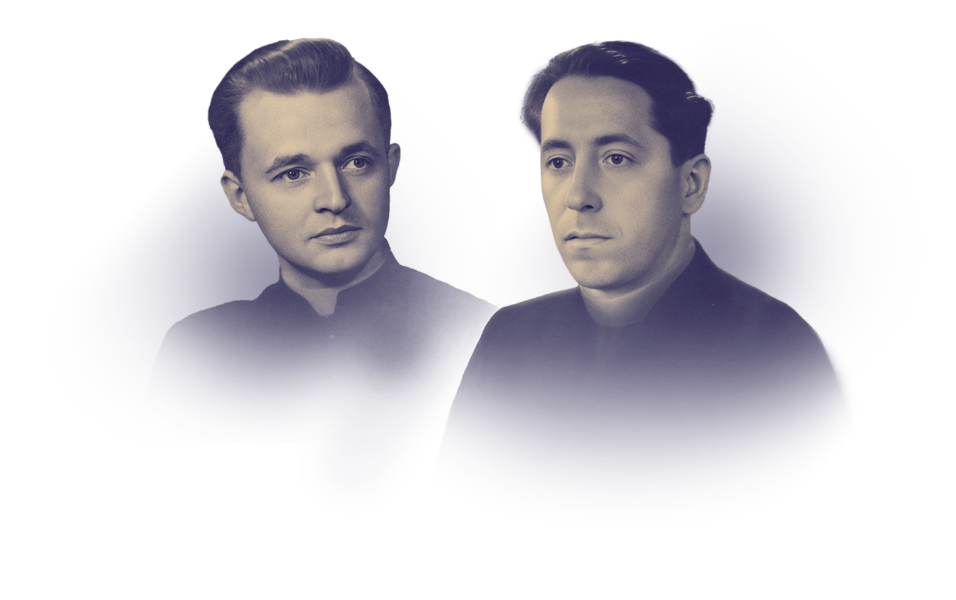
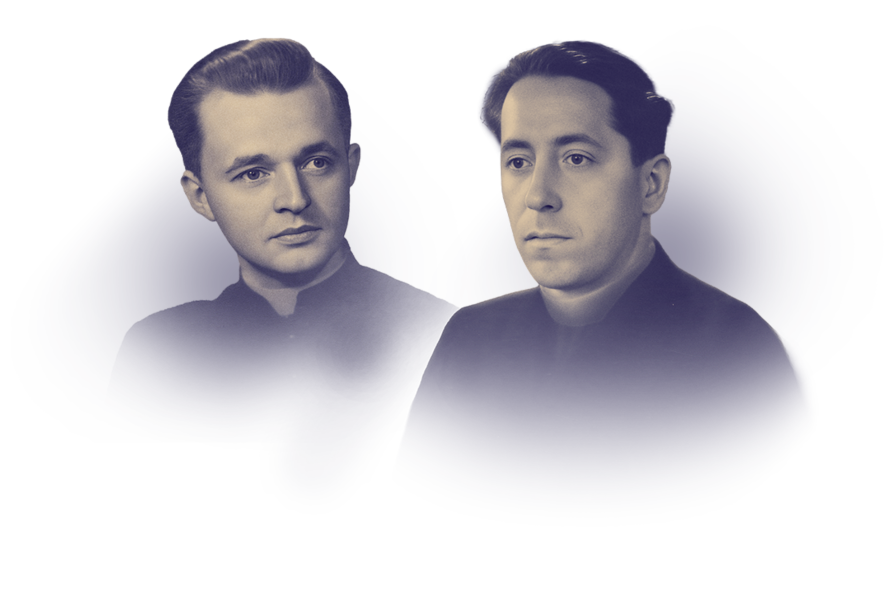
nastavení tučného písma, úprava qr code na stránce zapojte se

diff --git a/assets/styles/global.scss b/assets/styles/global.scss
@@ -64,7 +64,7 @@
 
 .posun-300{
     position: relative;
-    top: -19em;
+    margin-top: -19em;
 }
 
 @media screen and (max-width: 840px){
@@ -76,7 +76,7 @@
     }
 
     .posun-300 {
-        top: -7em;
+        margin-top: -4em;
     }
 
     .bula-drbola{
@@ -315,6 +315,7 @@ $font-family-base: 'Clash Display', sans-serif;
 $headings-font-family: 'Clash Display', sans-serif;
 $h1-font-size: 3.125rem;
 $h2-font-size: 2.19rem;
+$font-weight-bolder: 1000;
 
 .text-date{
     color: rgb(154, 151, 151);;
@@ -374,6 +375,8 @@ body {
 .hover-bold:hover {
     font-weight: bold;
 }
+
+
 // the ~ allows you to reference things in node_modules
 @import "~bootstrap/scss/bootstrap";
 
